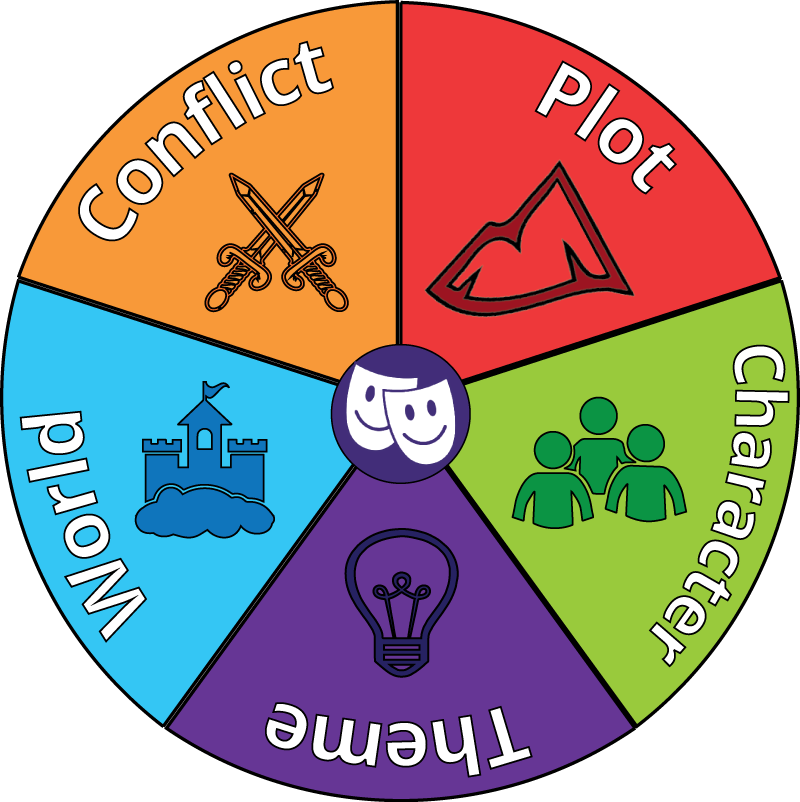
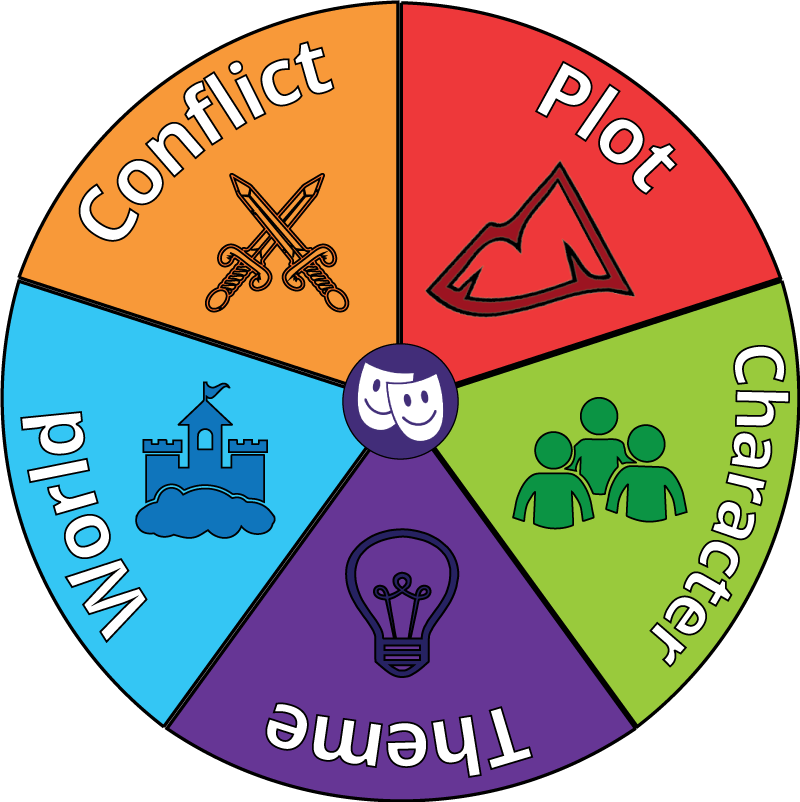
one_day page

diff --git a/templates/ui_demo.html b/templates/ui_demo.html
@@ -1,193 +1,28 @@
 {% extends "base.html" %}
 {% load i18n mezzanine_tags accounts_tags  static %}
-{% block meta_title %}Slots of Fun{% endblock %}
-{% block title %}}Slots of Fun{% endblock %}
+{% block meta_title %}Spinning wheels{% endblock %}
+{% block title %}}Spinning wheels{% endblock %}
 {% block breadcrumb_menu %}
-    {{ block.super }}Slots of Fun{% endblock %}
+    {{ block.super }}Spinning wheels{% endblock %}
 
 {% block footer %}{% endblock %}
 
 {% block all_content %}
-
 <style>
 
-
-    .wheel {
-        opacity: 1;
-        transition: all 0.15s ease;
-        display: inline-block;
-        position: relative;
-    }
-
-    .spin {
-        animation: spin .1s infinite;
+    #wheel_background {
+        animation: spin 15s linear infinite;
     }
 
     @keyframes spin {
-        0% {
-            transform: translatey(-25px);
-            opacity: 0;
-        }
-        50% {
-            transform: translatey(0);
-            opacity: 1;
-        }
         100% {
-            transform: translatey(20px);
-            opacity: 0;
+            transform: rotate(360deg);
         }
-    }
-    #prompt_icons img {
-        height: 55px;
-        width: 55px;
     }
 
 </style>
 
-<div id="random_prompt_slots" style="
-     display: flex; justify-content: flex-start; align-items: center;
-     width: 620px; outline: 1px dashed rgb(65,45,120);">
-
-    <div id="prompt_icons" class="jos_flex_container" style="margin-left: 20px; height: 280px; width: 13%;
-         justify-content: space-around; align-items: flex-start; background-color: white;">
-        <img src="/static/img/icon-character.png" style=" ">
-        <img src="/static/img/icon-world.png" style=" ">
-        <img src="/static/img/icon-conflict.png" style=" ">
-    </div>
-
-
-
-
-
-    <div id="prompt_wheels" class="jos_flex_container homehead" style="
-         height: 285px; width: 61%; justify-content: space-around; align-items: flex-start;">
-
-        <div id='character' class="wheel" style=" ">
-            ???
-        </div>
-
-        <div id='world' class="wheel" style=" ">
-            ???
-        </div>
-
-        <div id='conflict' class="wheel" style=" ">
-            ???
-        </div>
-
-    </div>
-
-    <button class="j_button j_discard_button" style="
-            font-size: 30pt; font-weight: bold;
-            height: 120px; width: 120px; border-radius: 60px;"
-        onclick="startWheel();">
-        Spin!
-    </button>
-
-</div>
-
-
-<div id='winning_prompt' class="jos_flex_container" style="
-     justify-content: space-between; height: 140px; width: 640px;
-     margin: 15px 0 0 15px; font-size: 18pt; display: none">
-    <div>Your <span id="spin_number" style="color: #d9534f"></span> prompt:</div>
-    <div style="font-size: 22pt; font-weight: bold;" id = 'winners'></div>
-    <div>
-        Now, spin again or
-        <button id=" " class="j_button j_save_button" style=" "
-                onclick=" "
-                data-toggle="tooltip" data-placement="bottom" title="Opens story editor">
-            <i class="fa fa-arrow-right fa-fw"></i>GO
-        </button>
-    </div>
-</div>
-
-<script>
-
-    var spin_number = 0,
-        change_char, change_world, change_conflict,
-        characters = [
-            "Spymaster", "Billionaire", "Janitor", "Farmer", "Alien",
-            "Astronaut", "Bank teller", "Househusband", "Pharmacist",
-            "Dancer", "Manicurist", "Paparazzi", "Aunt", "Grandfather", "Thief",
-            "Cashier", "Politician", "Actor", "Dentist", '*WILD*'],
-        worlds = [
-            "Main street", "Movie set", "School bus", "Taj Mahal",
-            "Closet", "1880s London", "Feudal Japan", "Garden of Eden",
-            "Ancient Egypt", "1789 France", "Bangkok", "Mount Everest",
-            "Tahiti", "Pirate ship", "Ancient Rome", "Vatican", "Mars"],
-        conflicts = [
-            "Earthquake", "Misfortune", "Revolt", "Kidnapping", "Puzzle",
-            "Rivalry", "Adultery", "Insanity", "Passion", "Desire", "Heresy",
-            "Conformity", "Mistaken belief", "Lover betrays", '*WILD*'],
-        first_character = 0, first_world = 0, first_conflict = 0;
-
-    function changeCharacter() {
-        $('#character').html(characters[first_character]).css('color', getColor());
-        first_character = (first_character + 1) % characters.length; // modulus repeats
-    }
-
-    function changeWorld() {
-        $('#world').html(worlds[first_world]).css('color', getColor());
-        first_world = (first_world + 1) % worlds.length;
-    }
-
-    function changeConflict() {
-        $('#conflict').html(conflicts[first_conflict]).css('color', getColor());
-        first_conflict = (first_conflict + 1) % conflicts.length;
-    }
-
-    function startWheel() {
-        spin_number ++;
-        $('#winning_prompt').hide();
-        var timer = 1000 + Math.floor(Math.random() * 150);
-        $('.wheel').addClass('spin');
-
-        change_char = setInterval(changeCharacter, 50); // match css animation
-        setTimeout(function () {
-            clearInterval(change_char);
-            $('#character').removeClass('spin');
-        }, timer);
-        change_world = setInterval(changeWorld, 50);
-        setTimeout(function () {
-            clearInterval(change_world);
-            $('#world').removeClass('spin');
-        }, timer + 600);
-        change_conflict = setInterval(changeConflict, 50);
-        setTimeout(function () {
-            clearInterval(change_conflict);
-            $('#conflict').removeClass('spin');
-        }, timer + 1200);
-
-        setTimeout(function () {
-            $('#spin_number').html(ordinal_suffix_of(spin_number));
-            $('#winners').html(
-                    $('#character').html() + ' in '
-                    + $('#world').html() + ' facing '
-                    + $('#conflict').html());
-            $('#winning_prompt').show();
-        }, timer + 1500)
-    }
-
-    function getColor() {
-       return 'hsl(' + (Math.floor(Math.random() * 18)) * 20 + ', 85%, 55%)';
-    }
-
-
-    function ordinal_suffix_of(i) {
-        var j = i % 10,
-                k = i % 100;
-        if (j == 1 && k != 11) {
-            return i + "st";
-        }
-        if (j == 2 && k != 12) {
-            return i + "nd";
-        }
-        if (j == 3 && k != 13) {
-            return i + "rd";
-        }
-        return i + "th";
-    }
-</script>
+<img id='wheel_background' src="/static/img/wheel-small-background.png">
 
 {% endblock all_content %}
 

diff --git a/templates/joscourses/one_day.html b/templates/joscourses/one_day.html
@@ -63,11 +63,11 @@
     <div style="margin-top: 20px; background-color: red;">
         {{ day.brainstorm | safe }}
     </div>
-    <div class="section_title" style="margin-top: 20px; background-color: lightseagreen;">Storywheel</div>
+    <div class="section_title" style="margin-top: 20px; background-color: lightseagreen;">Wheel</div>
 
     <div class="jos_flex_container" style="align-items: center;
-         margin: 20px 0 0 0; background-color: lightseagreen;">
-        <div id="fixed_background" style="width: 330px; height: 330px;">
+         margin: 20px 0 0 0; background-color: lightseagreen; ">
+        <div id="fixed_background" style="width: 330px; height: 330px; transform: rotate(180deg);">
             <canvas id="pie_canvas" width="330" height="330" style="
                     background-image: url('{% static 'img/wheel-112016.png' %}');
                     background-size: 330px;">
